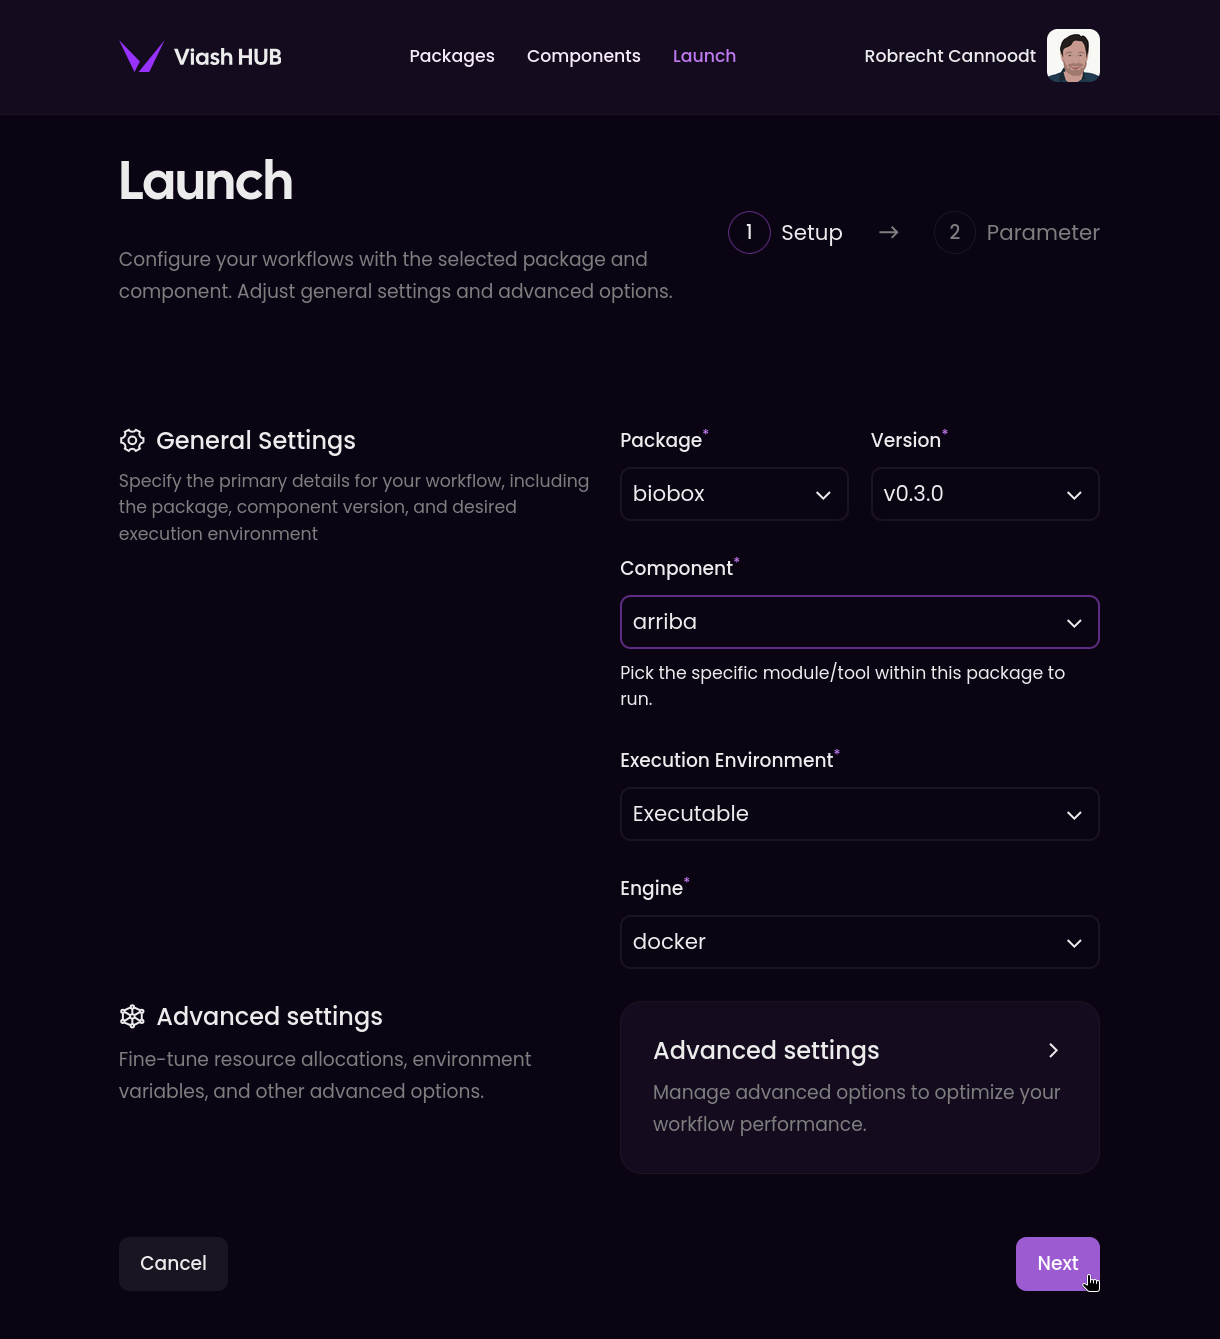
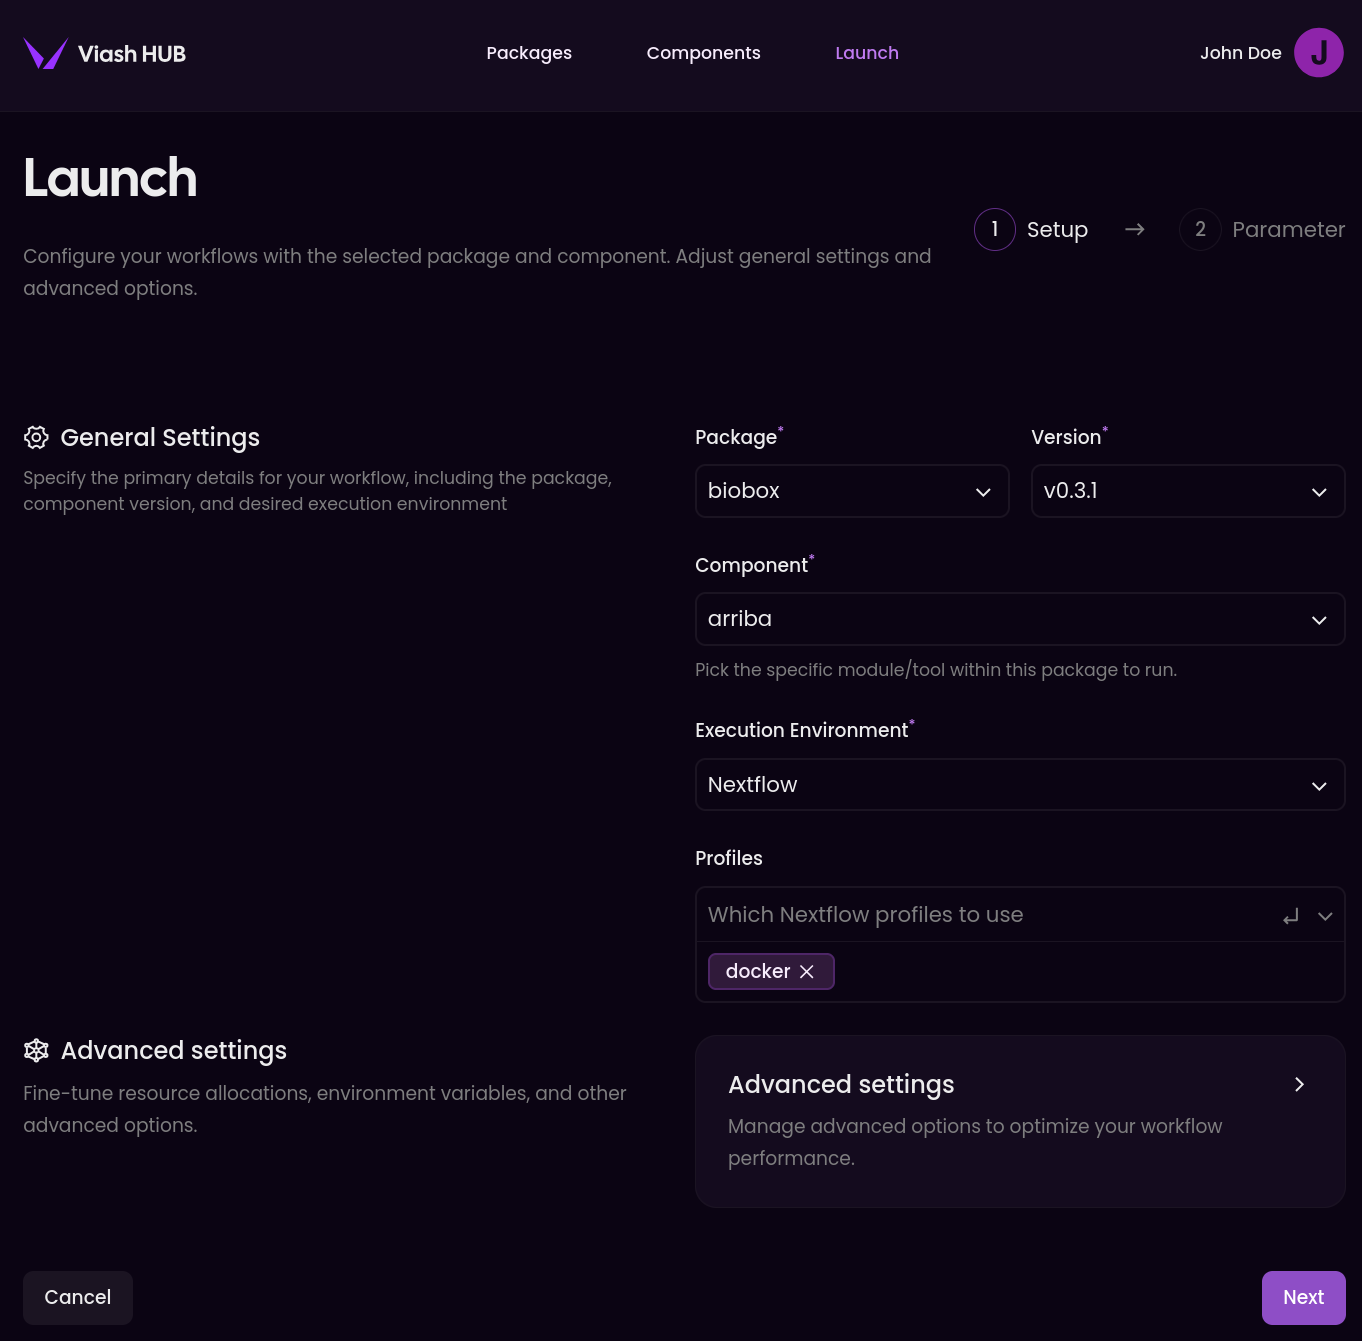
Update readme (#177)
* update image

* add changelog

* make readme more generic

* fix url

* make images relative again

diff --git a/README.md b/README.md
@@ -40,7 +40,7 @@ Viash components in biobox can be run in various ways:
 
 ``` mermaid lang="mermaid"
 flowchart TD
-    A[biobox v0.3.0] --> B(Viash Hub Launch)
+    A[biobox v0.3.1] --> B(Viash Hub Launch)
     A --> C(Viash CLI)
     A --> D(Nextflow CLI)
     A --> E(Seqera Cloud)
@@ -50,7 +50,7 @@ flowchart TD
 ### 1. Via the Viash Hub Launch interface
 
 You can run this component directly from the Viash Hub [Launch
-interface](https://www.viash-hub.com/launch?package=biobox&version=v0.3.0&component=arriba&runner=Executable).
+interface](https://www.viash-hub.com/launch?package=biobox&version=v0.3.1&component=arriba&runner=Executable).
 
 ![](docs/viash-hub.png)
 
@@ -60,9 +60,9 @@ You can run this component directly from the command line using the
 Viash CLI.
 
 ``` bash
-viash run vsh://biobox@v0.3.0/arriba -- --help
+viash run vsh://biobox@v0.3.1/arriba -- --help
 
-viash run vsh://biobox@v0.3.0/arriba -- \
+viash run vsh://biobox@v0.3.1/arriba -- \
   --bam path/to/input.bam \
   --genome path/to/genome.fa \
   --gene_annotation path/to/annotation.gtf \
@@ -78,7 +78,7 @@ You can run this component as a Nextflow pipeline.
 
 ``` bash
 nextflow run https://packages.viash-hub.com/vsh/biobox \
-  -revision v0.3.0 \
+  -revision v0.3.1 \
   -main-script target/nextflow/arriba/main.nf \
   -latest -resume \
   -profile docker \
@@ -109,7 +109,7 @@ component as a dependency:
 ``` yaml
 dependencies:
   - name: arriba
-    repository: vsh://biobox@v0.3.0
+    repository: vsh://biobox@v0.3.1
 ```
 
 **Tip:** See the [Viash

diff --git a/CHANGELOG.md b/CHANGELOG.md
@@ -1,10 +1,15 @@
+# biobox 0.3.2
+
+## MINOR CHANGES
+
+* Update README (PR #177).
+
 # biobox 0.3.1
 
 ## NEW FUNCTIONALITY
 
 * `bcl_convert`: add `force` argument (PR #171).
 * `cellranger/cellranger_count`: Align fastq files using Cell Ranger count (PR #163).
-
 
 ## MINOR CHANGES
 
